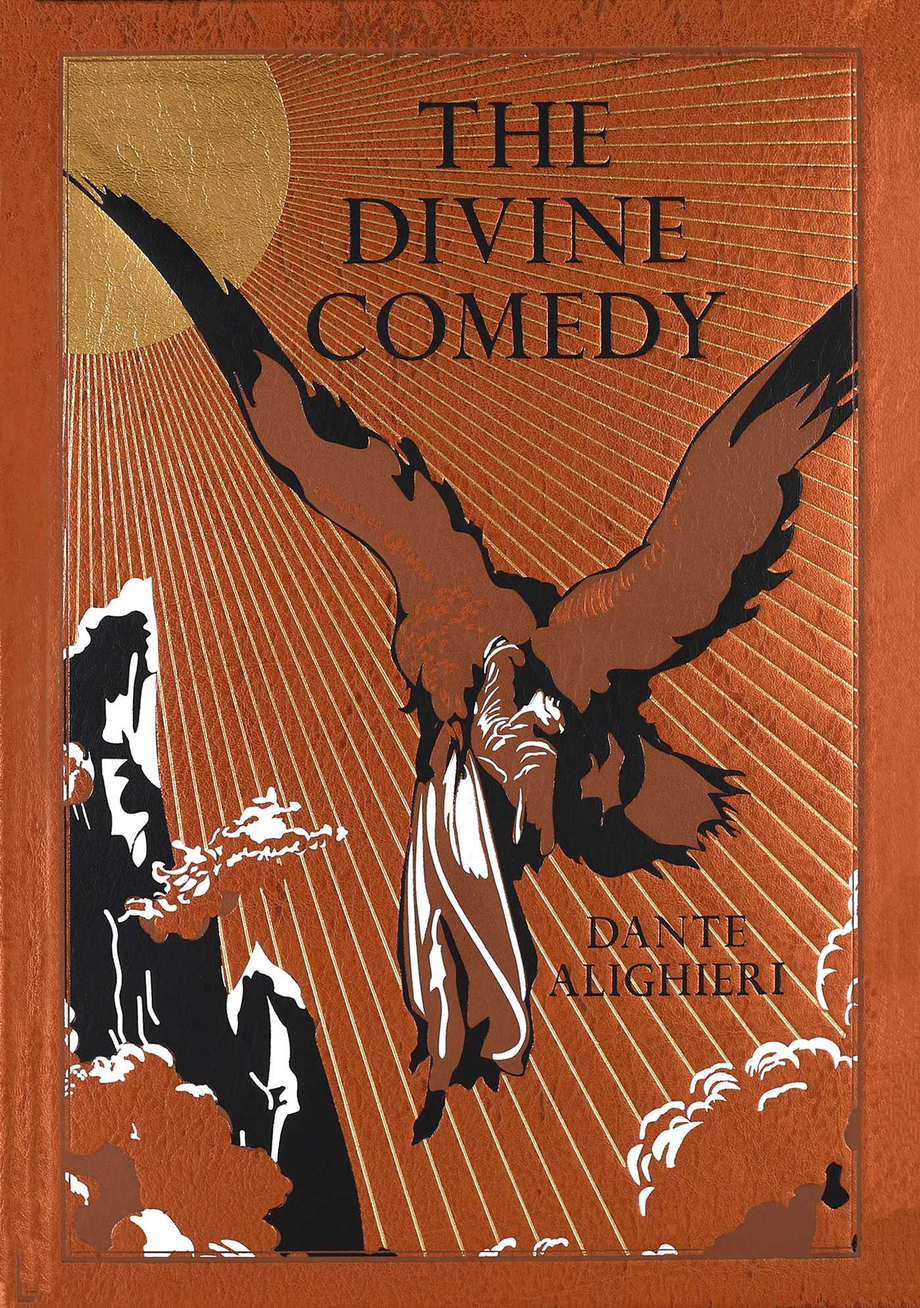
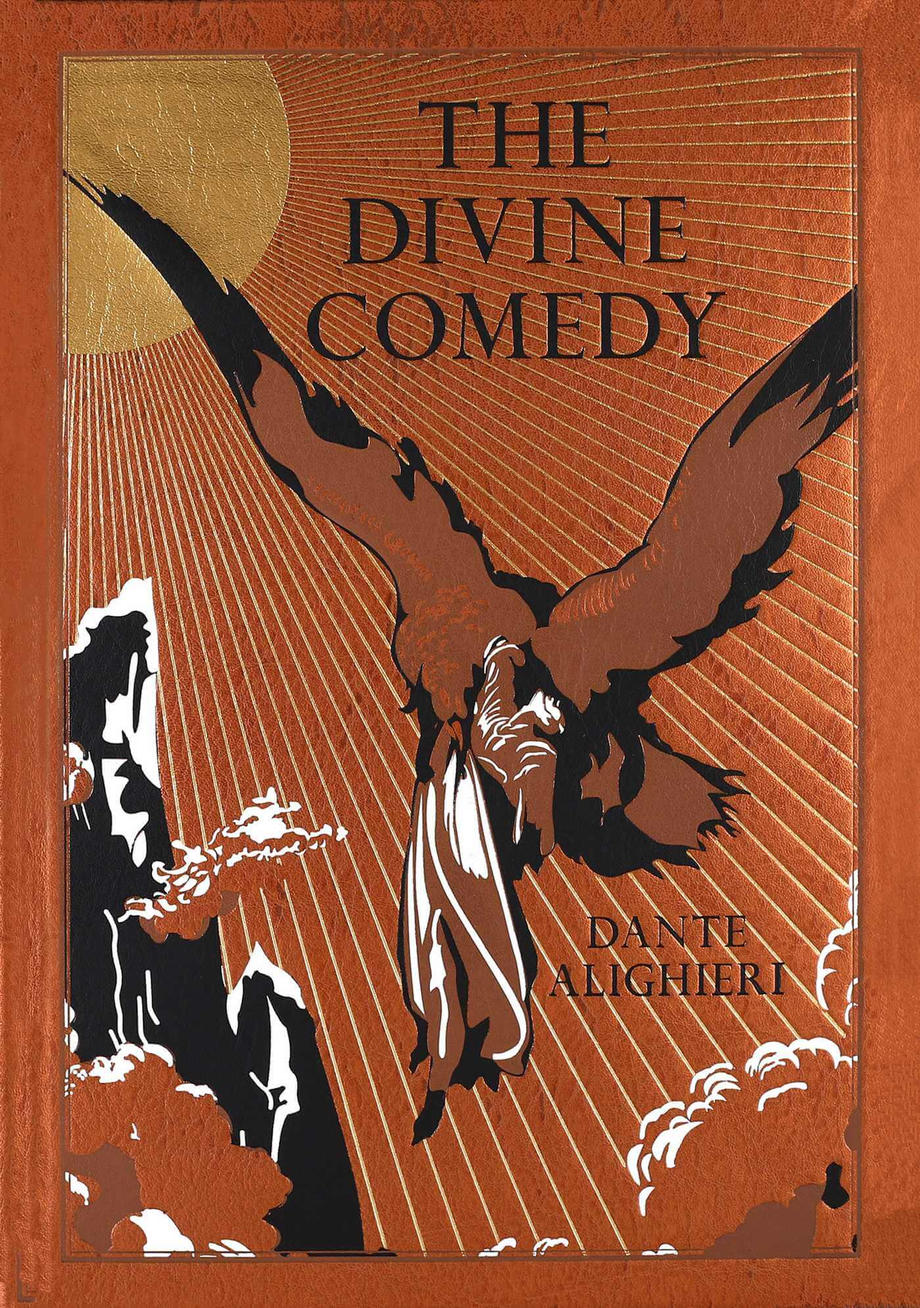
reduce img size by using tinyjpg: saved about 4mb

Changed region(s): [[0.5225, 0.5299, 0.5533, 0.5611]]

diff --git a/index.html b/index.html
@@ -55,7 +55,7 @@
                     Caulfield, en su búsqueda de identidad y autenticidad.
                 </p><a href="http://biblioteca2.ucab.edu.ve/anexos/biblioteca/marc/texto/AAM8264.pdf" target="_blank">Comprar</a>
             </article>
-            <article><img src="./imagenes/img-mas-vendidos/juana_de_arco.jpg" alt="libro juana de arco mark twain">
+            <article><img src="./imagenes/img-mas-vendidos/juana_de_arco.png" alt="libro juana de arco mark twain">
                 <h2>Juana de Arco</h2>
                 <p>Mark Twain siempre consideró a Juana de Arco como la mujer más admirable producida por la Humanidad,
                     y a este libro como su mejor novela.</p>
@@ -83,7 +83,7 @@
             <article><a href="https://escueladeruso.com/wp-content/uploads/2015/09/Gogol-Nicolai-Almas-Muertas.pdf" target="_blank"><img src="./imagenes/img-tematica/almas_muertas.jpg" alt="Libro Almas Muertas de Gogol"></a></article>
             <article><a href="https://web.seducoahuila.gob.mx/biblioweb/upload/Dante%20Alighieri%20Divina%20comedia.pdf" target="_blank"><img src="./imagenes/img-tematica/divine_comedy.jpg" alt="Libro La Divina Comedia de Aleghieri"></a>
             </article>
-            <article><a href="https://biblioteca.org.ar/libros/133590.pdf" target="_blank"><img src="./imagenes/img-tematica/anna_k.jpg" alt="Libro Anna Karenina de Tolstoy"></a></article>
+            <article><a href="https://biblioteca.org.ar/libros/133590.pdf" target="_blank"><img src="./imagenes/img-tematica/anna_k1.jpg" alt="Libro Anna Karenina de Tolstoy"></a></article>
             <article><a href="https://www.imprentanacional.go.cr/editorialdigital/libros/literatura%20universal/el_retrato_de_dorian_grey.pdf" target="_blank"><img src="./imagenes/img-tematica/dorian_grey.jpg"
                     alt="Libro El Retrato de Dorian Grey de Oscar Wilde"></a></article>
             <article><a href="https://educacion.seducoahuila.gob.mx/wp-content/uploads/2023/10/16.-Los-Miserables-Victor-Hugo.pdf" target="_blank"><img src="./imagenes/img-tematica/les_miserables.jpg" alt="Libro Lés Miserables de Victor Hugo"></a>
@@ -112,7 +112,7 @@
         <section id="ofertaEspecial">
             <h1>Oferta especial</h1>
             <article>
-                <img src="./imagenes/img_ofertas/catcher_in_the_rye.jpg"
+                <img src="./imagenes/img_ofertas/catcher_in_the_rye.png"
                     alt="Libro Catcher In The Rye de J.D. Salinger">
                 <div>
                     <h2>The Catcher in the Rye</h2>

diff --git a/styles.css b/styles.css
@@ -61,7 +61,7 @@ nav ul a:hover {
 /* start main */
 
 main {
-    background-image: url(./imagenes/img-main/libreria-fondo-main.jpg);
+    background-image: url(./imagenes/img-main/libreria-fondo-main2.jpg);
     height: 600px;
     background-size:contain;
     display: flex;
